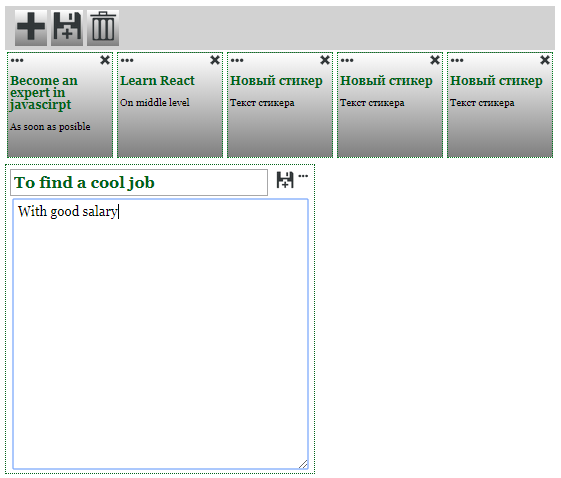
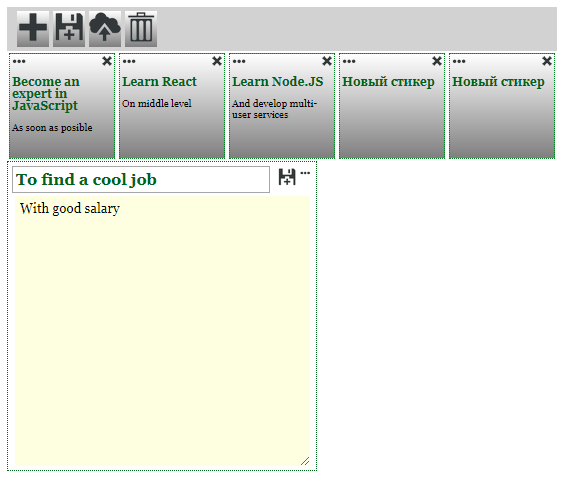
new screenshort

diff --git a/dist/main.js b/dist/main.js
@@ -274,7 +274,7 @@ eval("__webpack_require__.r(__webpack_exports__);\n/* harmony export (binding) *
 /***/ (function(module, __webpack_exports__, __webpack_require__) {
 
 "use strict";
-eval("__webpack_require__.r(__webpack_exports__);\n/* harmony export (binding) */ __webpack_require__.d(__webpack_exports__, \"default\", function() { return example; });\n/* harmony import */ var _singleSticker_makeSticker__WEBPACK_IMPORTED_MODULE_0__ = __webpack_require__(/*! ../singleSticker/makeSticker */ \"./src/singleSticker/makeSticker.js\");\n\r\n\r\nfunction example() {\r\n\r\n    /* На гитхабе хром блокирует кросс-доменную загрузку даже по https. Яндекс-браузер работает норм.\r\n\r\n    const url = 'https:// ******.ru/files/stickyNotes/example.php';\r\n    function httpGet(url) {\r\n        var xhr = new XMLHttpRequest();\r\n        xhr.open(\"GET\", url, true);\r\n        xhr.send();\r\n        xhr.onreadystatechange = function() { // (3)\r\n            if (xhr.readyState === 4 && xhr.status === 200) {\r\n                const exampleStickers = xhr.responseText;\r\n                //out2.innerHTML = exampleStickers;\r\n                document.getElementById('stickyNotes').insertAdjacentHTML('beforeend', exampleStickers);\r\n            }\r\n        }\r\n    }\r\n    httpGet(url);\r\n    */\r\n    Object(_singleSticker_makeSticker__WEBPACK_IMPORTED_MODULE_0__[\"default\"])('Become an expert in JavaScript', 'As soon as posible', 'newSticker');\r\n    Object(_singleSticker_makeSticker__WEBPACK_IMPORTED_MODULE_0__[\"default\"])('Learn React', 'On middle level', 'newSticker');\r\n    Object(_singleSticker_makeSticker__WEBPACK_IMPORTED_MODULE_0__[\"default\"])('Новый стикер', '', 'newSticker');\r\n    Object(_singleSticker_makeSticker__WEBPACK_IMPORTED_MODULE_0__[\"default\"])('Новый стикер', '', 'newSticker');\r\n    Object(_singleSticker_makeSticker__WEBPACK_IMPORTED_MODULE_0__[\"default\"])('To find a cool job', 'With good salary');\r\n    const ex = document.getElementById('example');\r\n    ex.remove();\r\n}\n\n//# sourceURL=webpack:///./src/transmission/example.js?");
+eval("__webpack_require__.r(__webpack_exports__);\n/* harmony export (binding) */ __webpack_require__.d(__webpack_exports__, \"default\", function() { return example; });\n/* harmony import */ var _singleSticker_makeSticker__WEBPACK_IMPORTED_MODULE_0__ = __webpack_require__(/*! ../singleSticker/makeSticker */ \"./src/singleSticker/makeSticker.js\");\n\r\n\r\nfunction example() {\r\n\r\n    /* На гитхабе хром блокирует кросс-доменную загрузку даже по https. Яндекс-браузер работает норм.\r\n\r\n    const url = 'https:// ******.ru/files/stickyNotes/example.php';\r\n    function httpGet(url) {\r\n        var xhr = new XMLHttpRequest();\r\n        xhr.open(\"GET\", url, true);\r\n        xhr.send();\r\n        xhr.onreadystatechange = function() { // (3)\r\n            if (xhr.readyState === 4 && xhr.status === 200) {\r\n                const exampleStickers = xhr.responseText;\r\n                //out2.innerHTML = exampleStickers;\r\n                document.getElementById('stickyNotes').insertAdjacentHTML('beforeend', exampleStickers);\r\n            }\r\n        }\r\n    }\r\n    httpGet(url);\r\n    */\r\n    Object(_singleSticker_makeSticker__WEBPACK_IMPORTED_MODULE_0__[\"default\"])('Become an expert in JavaScript', 'As soon as posible', 'newSticker');\r\n    Object(_singleSticker_makeSticker__WEBPACK_IMPORTED_MODULE_0__[\"default\"])('Learn React', 'On middle level', 'newSticker');\r\n    Object(_singleSticker_makeSticker__WEBPACK_IMPORTED_MODULE_0__[\"default\"])('Learn Node.JS', 'And develop multi-user services', 'newSticker');\r\n    Object(_singleSticker_makeSticker__WEBPACK_IMPORTED_MODULE_0__[\"default\"])('Новый стикер', '', 'newSticker');\r\n    Object(_singleSticker_makeSticker__WEBPACK_IMPORTED_MODULE_0__[\"default\"])('Новый стикер', '', 'newSticker');\r\n    Object(_singleSticker_makeSticker__WEBPACK_IMPORTED_MODULE_0__[\"default\"])('To find a cool job', 'With good salary');\r\n    const ex = document.getElementById('example');\r\n    ex.remove();\r\n}\n\n//# sourceURL=webpack:///./src/transmission/example.js?");
 
 /***/ }),
 

diff --git a/src/transmission/example.js b/src/transmission/example.js
@@ -21,6 +21,7 @@ export default function example() {
     */
     makeSticker('Become an expert in JavaScript', 'As soon as posible', 'newSticker');
     makeSticker('Learn React', 'On middle level', 'newSticker');
+    makeSticker('Learn Node.JS', 'And develop multi-user services', 'newSticker');
     makeSticker('Новый стикер', '', 'newSticker');
     makeSticker('Новый стикер', '', 'newSticker');
     makeSticker('To find a cool job', 'With good salary');
